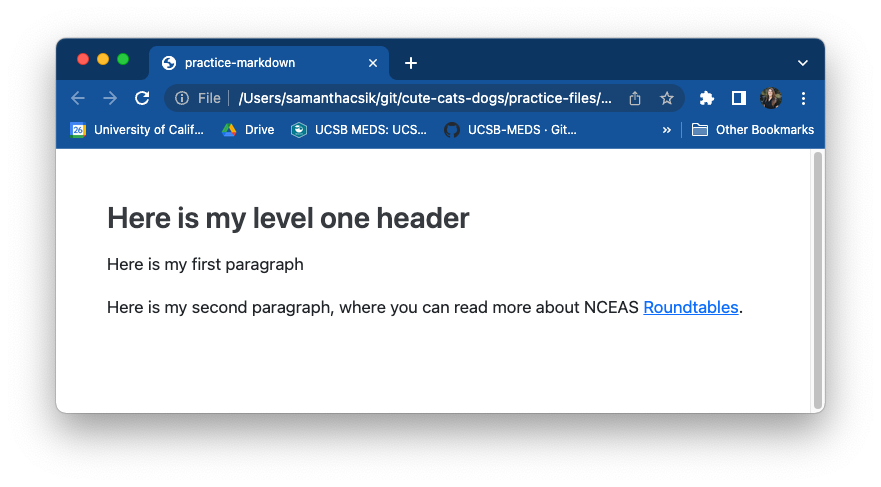
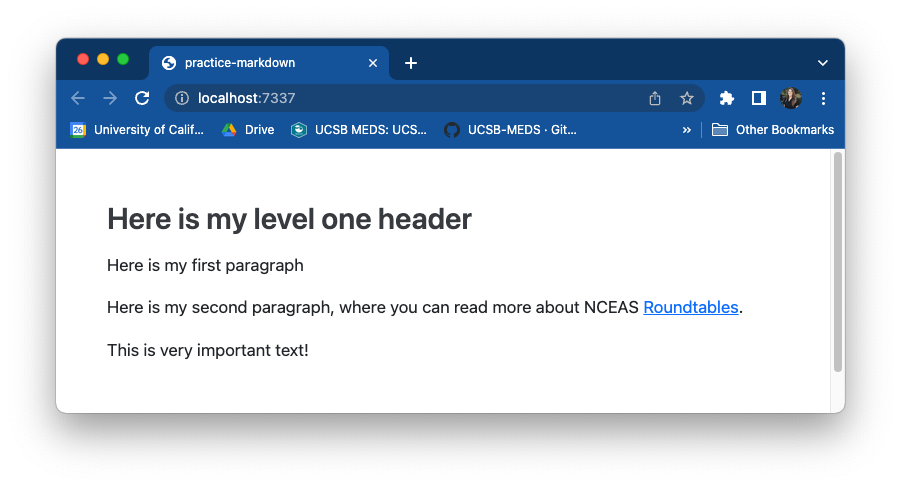
added extra line to html and .qmd file (important text -- want to use this to show why using css is important for accessibility)

diff --git a/index.html b/index.html
@@ -732,8 +732,9 @@
 <span id="cb1-8"><a href="#cb1-8"></a>  <span class="kw">&lt;h1&gt;</span>Here is my level one header<span class="kw">&lt;/h1&gt;</span></span>
 <span id="cb1-9"><a href="#cb1-9"></a>  <span class="kw">&lt;p&gt;</span>Here is my first paragraph<span class="kw">&lt;/p&gt;</span></span>
 <span id="cb1-10"><a href="#cb1-10"></a>  <span class="kw">&lt;p&gt;</span>Here is my second paragraph, where you can read more about NCEAS <span class="kw">&lt;a</span> <span class="er">href</span><span class="ot">=</span><span class="st">"https://www.nceas.ucsb.edu/roundtable"</span><span class="kw">&gt;</span>Roundtables<span class="kw">&lt;/a&gt;</span>.<span class="kw">&lt;/p&gt;</span></span>
-<span id="cb1-11"><a href="#cb1-11"></a><span class="kw">&lt;/body&gt;</span></span>
-<span id="cb1-12"><a href="#cb1-12"></a><span class="kw">&lt;/html&gt;</span></span></code><button title="Copy to Clipboard" class="code-copy-button"><i class="bi"></i></button></pre></div>
+<span id="cb1-11"><a href="#cb1-11"></a>  <span class="kw">&lt;p&gt;</span>This is very important text!<span class="kw">&lt;/p&gt;</span></span>
+<span id="cb1-12"><a href="#cb1-12"></a><span class="kw">&lt;/body&gt;</span></span>
+<span id="cb1-13"><a href="#cb1-13"></a><span class="kw">&lt;/html&gt;</span></span></code><button title="Copy to Clipboard" class="code-copy-button"><i class="bi"></i></button></pre></div>
 </div>
 </div>
 <div id="tabset-1-2">
@@ -772,7 +773,9 @@
 <span id="cb2-2"><a href="#cb2-2"></a></span>
 <span id="cb2-3"><a href="#cb2-3"></a>Here is my first paragraph</span>
 <span id="cb2-4"><a href="#cb2-4"></a></span>
-<span id="cb2-5"><a href="#cb2-5"></a>Here is my second paragraph, where you can read more about NCEAS <span class="co">[</span><span class="ot">Roundtables</span><span class="co">](https://www.nceas.ucsb.edu/roundtable)</span>.</span></code><button title="Copy to Clipboard" class="code-copy-button"><i class="bi"></i></button></pre></div>
+<span id="cb2-5"><a href="#cb2-5"></a>Here is my second paragraph, where you can read more about NCEAS <span class="co">[</span><span class="ot">Roundtables</span><span class="co">](https://www.nceas.ucsb.edu/roundtable)</span>.</span>
+<span id="cb2-6"><a href="#cb2-6"></a></span>
+<span id="cb2-7"><a href="#cb2-7"></a>This is very important text!</span></code><button title="Copy to Clipboard" class="code-copy-button"><i class="bi"></i></button></pre></div>
 </div>
 <div id="tabset-2-2">
 <div class="body-text center-text">
@@ -940,6 +943,8 @@
 <div class="body-text important-text-bg center-text">
 <p><em>If you’re like me, you’ll probably find yourself using class selectors most often!</em></p>
 </div>
+</section><section id="conflicting-rules" class="slide level2" data-menu-title="Conflicting Rules"><h2></h2>
+<p><span class="slide-title">Conflicting CSS rules?</span></p>
 <div class="footer footer-default">
 
 </div>
